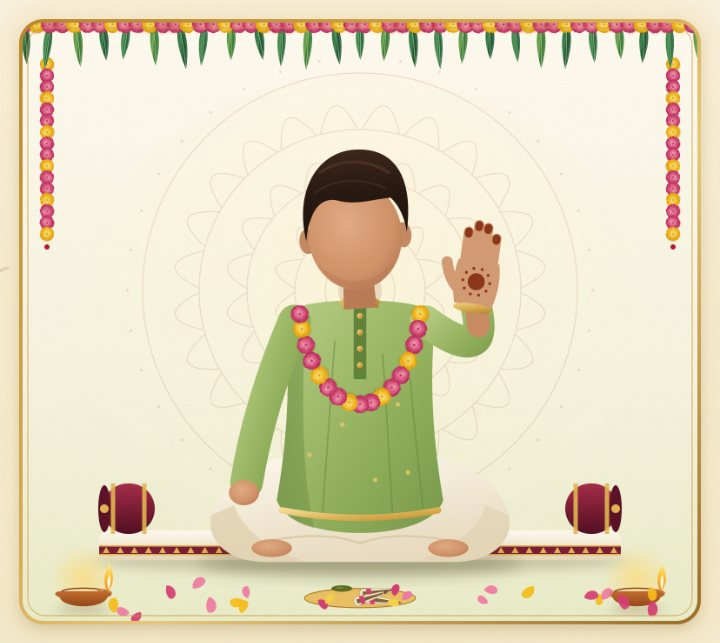
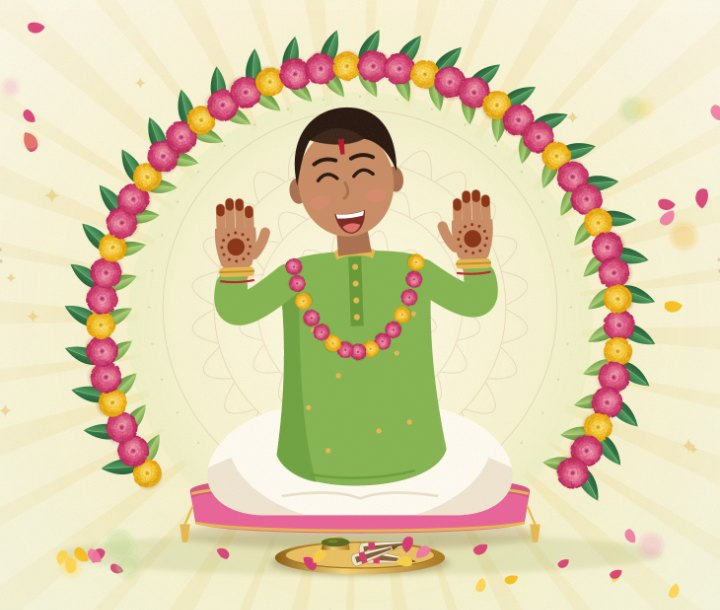
Dress Siddhant's Mehendi card in his Love, Written in Henna invite
His new Mehendi invite shares Samiksha's design (toran, title, rays and
garland are identical; only the couple and family differ), so the event
now wears that design on both sides with its own time, venue, invite and
art per side. This retires the green-script card's double frame, corner
sprays and theme overrides.

diff --git a/src/data/content.js b/src/data/content.js
@@ -16,8 +16,8 @@ const invite = (file, title, alt) => ({
 });
 
 const invites = {
-  groomMehendi: invite('groom-mehendi', 'Mehendi',
-    'Mehendi invitation from the Dalal family: Thursday 03 December 2026, 11:00 AM onwards, at their home on Wardha Road, Nagpur'),
+  groomMehendi: invite('groom-mehendi', 'Love, Written in Henna',
+    'Mehendi invitation from the Dalal family, “Love, Written in Henna”: Thursday 03 December 2026, from 11:00 AM, at their home on Wardha Road, Nagpur'),
   groomWedding: invite('groom-wedding-reception', 'Lagna Sohala & Reception',
     'Wedding and reception invitation from the Dalal family: Lagna Sohala on Saturday 05 December 2026 at Suvi Palace, Vasai-Virar, and the reception on Monday 07 December 2026 at Jerryl Lawns, Nagpur'),
   brideMehendi: invite('bride-mehendi', 'Love, Written in Henna',
@@ -158,6 +158,8 @@ export default {
         name: 'Mehendi',
         day: 'Thursday',
         date: '03 December 2026',
+        design: 'bride',
+        title: 'Love, Written in Henna',
         groom: {
           time: '11:00 AM onwards',
           description: 'An intimate mehendi gathering at the groom\'s home — intricate henna, close family, and happy chatter.',
@@ -167,10 +169,9 @@ export default {
             mapLink: 'https://www.google.com/maps/search/?api=1&query=203+Vedant+Shine+Appt+Ramkrishna+Housing+Society+Narendra+Nagar+Wardha+Rd+Nagpur+440015',
           },
           invite: invites.groomMehendi,
-          art: art('mehendi-groom', 720, 643, 'Illustration of Siddhant in a green kurta and marigold garland, seated cross-legged under a toran and holding up his hennaed palm, with bolsters and diyas on either side'),
+          art: art('mehendi-groom', 720, 610, 'Illustration of Siddhant laughing in a green kurta and marigold garland, seated on a cushion inside a marigold arch and holding up his hennaed hands'),
         },
         bride: {
-          title: 'Love, Written in Henna',
           time: '1:00 PM onwards',
           description: 'Intricate henna, music, and an afternoon full of joy — right here at Suvi Palace.',
           venue: suviPalace,

diff --git a/src/components/EventDecor.module.css b/src/components/EventDecor.module.css
@@ -21,12 +21,6 @@
   border: 1px solid var(--ev-frame);
 }
 
-.frameDouble {
-  border: 1px solid var(--ev-frame);
-  outline: 1px solid var(--ev-frame);
-  outline-offset: -6px;
-}
-
 /* The invite's toran across the top and garland along the foot, at the card's full width */
 .inviteToran,
 .inviteGarland {
@@ -69,7 +63,7 @@
   background: repeating-conic-gradient(from 0deg at 50% 40%, rgba(232, 176, 110, 0.18) 0deg 3deg, transparent 3deg 10deg);
 }
 
-/* the Mehendi invite's pale beams behind the bride */
+/* the Mehendi invites' pale beams behind the marigold arch */
 .sunRaysPale {
   background: repeating-conic-gradient(from 0deg at 50% 44%, rgba(236, 216, 128, 0.22) 0deg 3deg, transparent 3deg 10deg);
   mask-image: radial-gradient(circle at 50% 44%, #000 0, transparent 56%);
@@ -88,22 +82,6 @@
   left: 0;
   width: 100%;
   height: 44px;
-}
-
-/* ——— Mehendi: the invite's corner flowers, about a sixth of its width ——— */
-.spray {
-  width: max(84px, 16%);
-  height: auto;
-}
-
-.sprayTop {
-  top: 0;
-  left: 0;
-}
-
-.sprayBottom {
-  right: 0;
-  bottom: 0;
 }
 
 /* ——— Haldi ——— */

diff --git a/src/components/EventPanel.module.css b/src/components/EventPanel.module.css
@@ -114,9 +114,8 @@
 
 /* ——— The couple, from the invite; its edges fade into the card ——— */
 .art {
-  --art-fade-x: linear-gradient(to right, transparent, #000 var(--art-edge), #000 calc(100% - var(--art-edge)), transparent);
-  --art-fade-y: linear-gradient(to bottom, transparent, #000 var(--art-edge), #000 calc(100% - var(--art-edge)), transparent);
-  --art-edge: 9%;
+  --art-fade-x: linear-gradient(to right, transparent, #000 9%, #000 91%, transparent);
+  --art-fade-y: linear-gradient(to bottom, transparent, #000 9%, #000 91%, transparent);
   display: block;
   width: min(100%, 440px);
   height: auto;
@@ -125,11 +124,6 @@
   mask-composite: intersect;
   -webkit-mask-image: var(--art-fade-x), var(--art-fade-y);
   -webkit-mask-composite: source-in;
-}
-
-/* Siddhant's Mehendi scene comes in its own gold frame; only the paper around it fades */
-:global(.ev-groom-mehendi) .art {
-  --art-edge: 2.5%;
 }
 
 /* ——— Headings ——— */

diff --git a/src/styles/theme.css b/src/styles/theme.css
@@ -144,7 +144,6 @@
 
 /* ————— Event panels: each one mirrors its printed invite —————
    --ev-* tokens are read by EventPanel.module.css and EventDecor. */
-.ev-groom-mehendi,
 .ev-groom-lagna {
   --ev-bg: linear-gradient(180deg, #fffaf0 0%, #fcf0d8 70%, #f7e6c2 100%);
   --ev-ink: #5a2a14;
@@ -159,16 +158,6 @@
   --ev-qr: #7a1f30;
   --ev-frame: rgba(201, 150, 60, 0.6);
   --ev-band: #ecd6aa;
-}
-
-/* The Mehendi invite keeps the maroon and gold but writes its name in henna green */
-.ev-groom-mehendi {
-  --ev-bg: linear-gradient(180deg, #faf5e6 0%, #f7eed8 55%, #f1e2c2 100%);
-  --ev-title-fill: linear-gradient(100deg, #2f5a22 0%, #6f9a35 50%, #2f5a22 100%);
-  --ev-edge: rgba(47, 90, 34, 0.18);
-  --ev-label: #a8682a;
-  --ev-qr: #2f5a22;
-  --ev-band: #e6dfbb;
 }
 
 .ev-groom-reception {

diff --git a/src/components/EventDecor.jsx b/src/components/EventDecor.jsx
@@ -101,33 +101,11 @@ function Mandap() {
   );
 }
 
-// Marigolds and mango leaves tucked into a corner, from Siddhant's Mehendi invite
-function Spray({ at }) {
-  return (
-    <img
-      className={`${styles.spray} ${at === 'top' ? styles.sprayTop : styles.sprayBottom}`}
-      src={`${import.meta.env.BASE_URL}images/sprays/${at}.webp`}
-      alt=""
-      width="345"
-      height="310"
-      decoding="async"
-    />
-  );
-}
-
 function Frame({ variant }) {
   return <span className={`${styles.frame} ${styles[variant] || ''}`} />;
 }
 
 const DECOR = {
-  'groom-mehendi': () => (
-    <>
-      <Frame variant="frameDouble" />
-      <Spray at="top" />
-      <Spray at="bottom" />
-    </>
-  ),
-
   'groom-lagna': () => <Mandap />,
 
   'groom-reception': () => (
